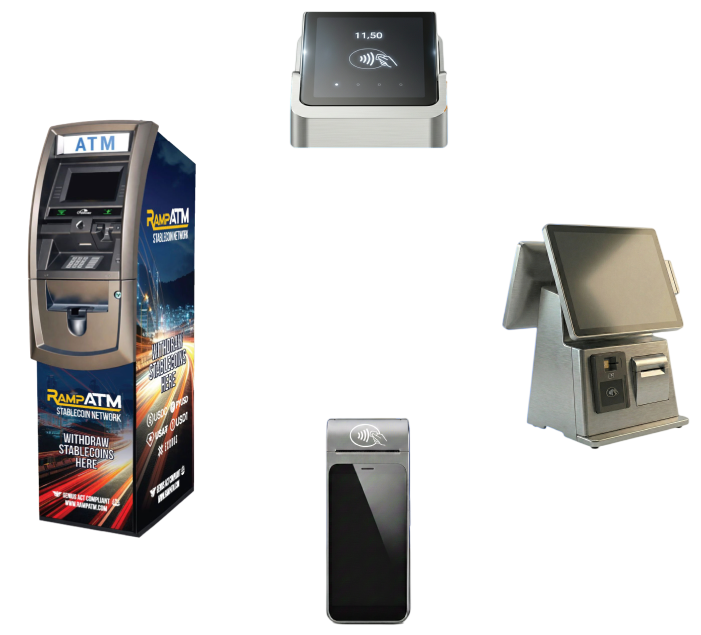
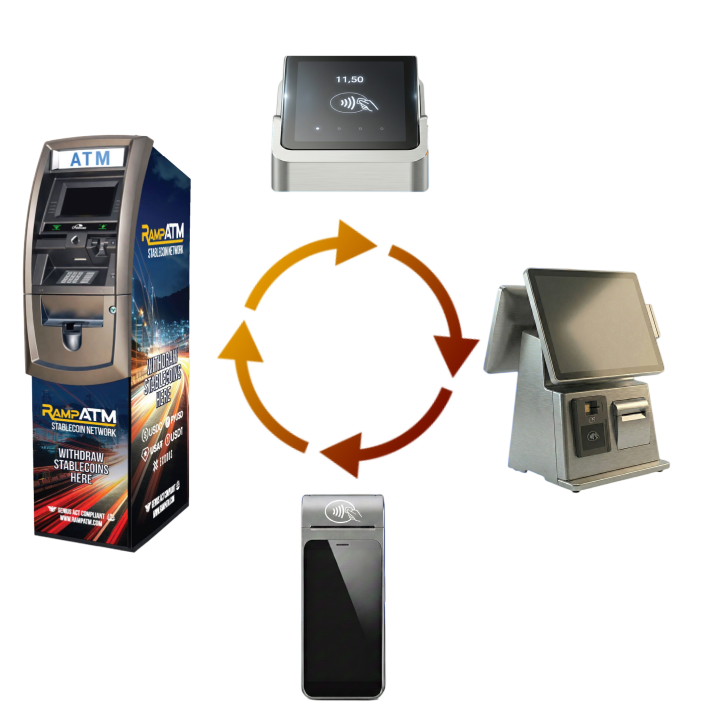
update hero image

Changed region(s): [[0.03, 0.0, 0.9886, 1.0]]

diff --git a/index.html b/index.html
@@ -138,6 +138,7 @@
                                 class="circle"
                                 viewBox="0 0 100 100"
                                 xmlns="http://www.w3.org/2000/svg"
+                                style="opacity: 50%;"
                             >
                                 <defs>
                                     <linearGradient
@@ -156,40 +157,11 @@
                                 </defs>
                                 <circle cx="50" cy="50" r="50"></circle>
                             </svg>
-                            <svg
-                                class="shape-1 d-none d-sm-block"
-                                viewBox="0 0 240.83 240.83"
-                                xmlns="http://www.w3.org/2000/svg"
-                            >
-                                <rect
-                                    x="-32.54"
-                                    y="78.39"
-                                    width="305.92"
-                                    height="84.05"
-                                    rx="42.03"
-                                    transform="translate(120.42 -49.88) rotate(45)"
-                                ></rect>
-                                <rect
-                                    x="-32.54"
-                                    y="78.39"
-                                    width="305.92"
-                                    height="84.05"
-                                    rx="42.03"
-                                    transform="translate(-49.88 120.42) rotate(-45)"
-                                ></rect>
-                            </svg>
-                            <svg
-                                class="shape-2 d-none d-sm-block"
-                                viewBox="0 0 100 100"
-                                xmlns="http://www.w3.org/2000/svg"
-                            >
-                                <circle cx="50" cy="50" r="50"></circle>
-                            </svg>
                             <img
                                 src="assets/img/hero.png"
                                 style="
                                     z-index: 1;
-                                    width: 500px;
+                                    width: 550px;
                                     max-width: 80vw;
                                 "
                             />
